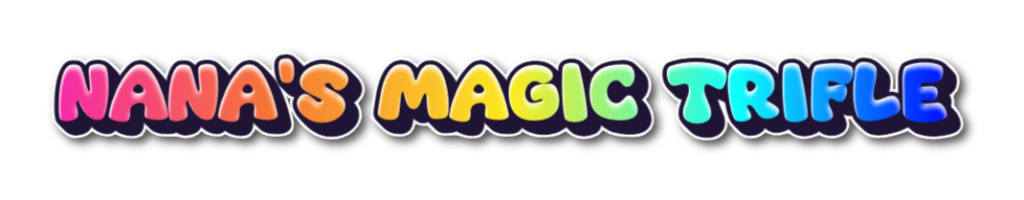
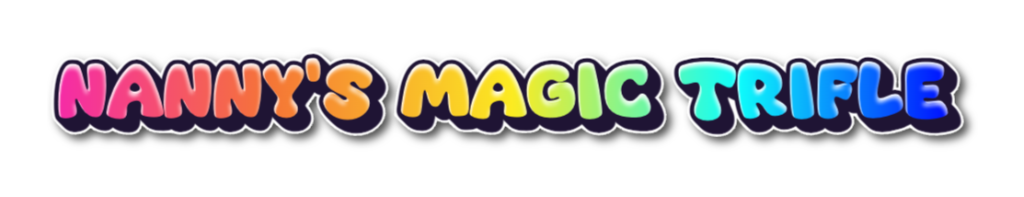
Correction to Nanny's magic trifle title, and attribution

Changed region(s): [[0.0312, 0.2741, 0.9375, 0.7614]]

diff --git a/footsteps/src/components/landing/Attributions.tsx b/footsteps/src/components/landing/Attributions.tsx
@@ -16,6 +16,9 @@ export default function Attributions() {
           </a>{" "}
           by <a href="https://gallery.yopriceville.com/">YoPriceVille Gallery</a>
         </li>
+        <li>
+          Bubble text created with <a href="https://www.textstudio.com/">Font generator</a>
+        </li>
       </ul>
     </>
   );
